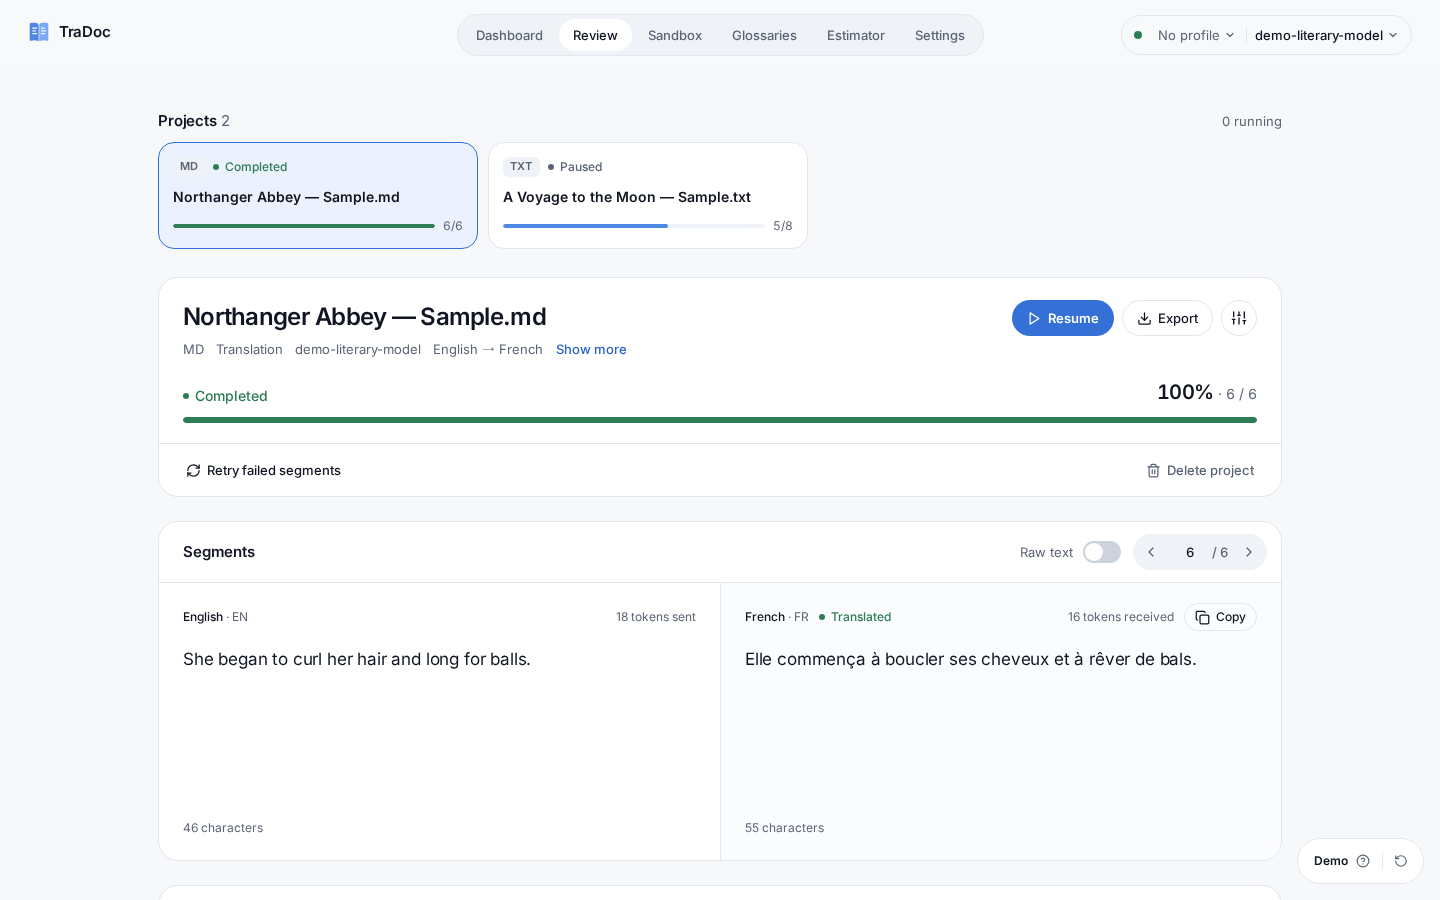
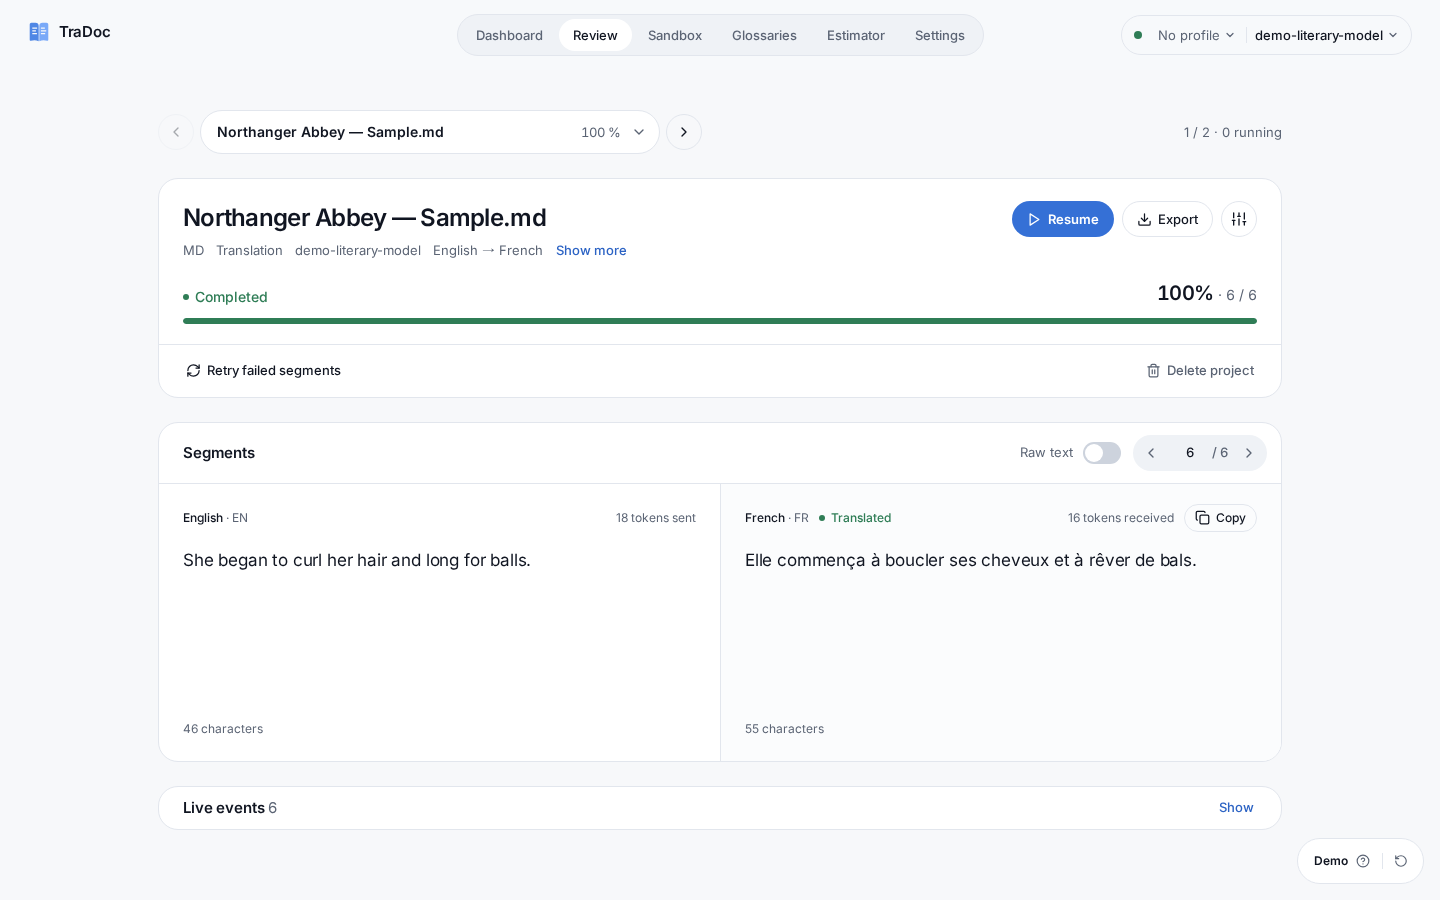
feat(ui): switch review projects from a dropdown with arrows
Replace the project cards on the Review screen with a single switcher:
previous and next buttons around a button showing the current project
and its percentage, which opens a list of every project with status
and percentage (searchable beyond five projects, arrow-key navigation,
Escape and outside click close it). It stays one row on desktop and
phones, and a demo scenario covers switching both ways.

diff --git a/web/src/components/JobsInspector.jsx b/web/src/components/JobsInspector.jsx
@@ -1,5 +1,5 @@
 import React, { useState, useEffect, useRef } from 'react';
-import { Play, Pause, RefreshCw, Download, ChevronRight, ChevronLeft, Copy, Check, Trash2, Sliders, X } from 'lucide-react';
+import { Play, Pause, RefreshCw, Download, ChevronRight, ChevronLeft, ChevronDown, Copy, Check, Search, Trash2, Sliders, X } from 'lucide-react';
 import { fetchJobs, fetchJobDetail, fetchJobSegments, startJob, pauseJob, retryJob, deleteJob, updateJobConfig, downloadJob, subscribeToEvents } from '../api';
 import { l, languageLabel, localeTag, t } from '../i18n/translations';
 import { readableSegment } from '../utils/readableSegment';
@@ -628,6 +628,45 @@ export default function JobsInspector({ selectedJobId, onSelectJob, settings, av
     return () => document.removeEventListener('keydown', closeOnEscape);
   }, [isEditingConfig]);
 
+  const [switcherOpen, setSwitcherOpen] = useState(false);
+  const [projectQuery, setProjectQuery] = useState('');
+  const switcherRef = useRef(null);
+  const switcherListRef = useRef(null);
+
+  useEffect(() => {
+    if (!switcherOpen) return undefined;
+    const closeOutside = (event) => {
+      if (switcherRef.current && !switcherRef.current.contains(event.target)) setSwitcherOpen(false);
+    };
+    const closeOnEscape = (event) => {
+      if (event.key === 'Escape') setSwitcherOpen(false);
+    };
+    document.addEventListener('mousedown', closeOutside);
+    document.addEventListener('keydown', closeOnEscape);
+    return () => {
+      document.removeEventListener('mousedown', closeOutside);
+      document.removeEventListener('keydown', closeOnEscape);
+    };
+  }, [switcherOpen]);
+
+  const currentJobIndex = jobs.findIndex((item) => item.id === job?.id);
+  const filteredJobs = jobs.filter((item) => item.file_name.toLowerCase().includes(projectQuery.trim().toLowerCase()));
+  const jobPercent = (item) => (item.total_chunks > 0 ? Math.round((item.completed_chunks / item.total_chunks) * 100) : 0);
+  const pickJob = (item) => {
+    selectJobOptimistic(item);
+    setSwitcherOpen(false);
+    setProjectQuery('');
+  };
+  const moveFocusInList = (event) => {
+    if (!['ArrowDown', 'ArrowUp'].includes(event.key)) return;
+    event.preventDefault();
+    const options = Array.from(switcherListRef.current?.querySelectorAll('button') || []);
+    if (options.length === 0) return;
+    const index = options.indexOf(document.activeElement);
+    const next = event.key === 'ArrowDown' ? Math.min(options.length - 1, index + 1) : Math.max(0, index - 1);
+    options[index === -1 ? 0 : next].focus();
+  };
+
   const jobStatusLabel = (status) => (
     status === 'PROCESSING' ? t('dashboard.processing', lang)
       : status === 'COMPLETED' ? t('dashboard.completed', lang)
@@ -650,43 +689,95 @@ export default function JobsInspector({ selectedJobId, onSelectJob, settings, av
     <div className="page">
       <h1 className="sr-only">{l(lang, 'Inspect and review', 'Inspection et révision', 'Inspección y revisión', 'Prüfen und überarbeiten')}</h1>
 
-      <section aria-labelledby="project-list-title" className="flex flex-col gap-2.5">
-        <div className="flex items-baseline justify-between gap-3">
-          <h2 id="project-list-title" className="section-title">
-            {l(lang, 'Projects', 'Projets', 'Proyectos', 'Projekte')} <span className="font-normal text-sec">{jobs.length}</span>
-          </h2>
-          <span className="text-[13px] text-sec" title={l(lang, 'Projects currently running', 'Projets actuellement en cours', 'Proyectos actualmente en curso', 'Derzeit laufende Projekte')}>
-            {activeJobCount} {l(lang, 'running', 'en cours', 'en curso', 'laufend')}
-          </span>
+      <div className="flex flex-wrap items-center gap-2">
+        <div className="flex min-w-0 flex-1 items-center gap-1.5 max-sm:basis-full">
+          <button
+            type="button"
+            className="icon-btn"
+            disabled={currentJobIndex <= 0}
+            onClick={() => pickJob(jobs[currentJobIndex - 1])}
+            aria-label={l(lang, 'Previous project', 'Projet précédent', 'Proyecto anterior', 'Vorheriges Projekt')}
+          >
+            <ChevronLeft aria-hidden="true" />
+          </button>
+          <div ref={switcherRef} className="relative min-w-0 flex-1 sm:max-w-[460px]">
+            <button
+              type="button"
+              aria-expanded={switcherOpen}
+              onClick={() => setSwitcherOpen(!switcherOpen)}
+              onKeyDown={(event) => {
+                if (event.key === 'ArrowDown') {
+                  event.preventDefault();
+                  setSwitcherOpen(true);
+                }
+              }}
+              className="flex h-11 w-full min-w-0 items-center gap-2.5 rounded-full border border-line bg-card pl-4 pr-3 text-left hover:bg-well"
+            >
+              <span className="sr-only">{l(lang, 'Current project', 'Projet en cours', 'Proyecto actual', 'Aktuelles Projekt')}:</span>
+              <span className="min-w-0 flex-1 truncate font-semibold">{job?.file_name || t('inspector.projectsList', lang)}</span>
+              {job && <span className="text-[13px] tabular-nums text-sec">{jobPercent(job)} %</span>}
+              <ChevronDown className={`size-4 flex-none text-sec transition-transform ${switcherOpen ? 'rotate-180' : ''}`} aria-hidden="true" />
+            </button>
+
+            {switcherOpen && (
+              <div className="absolute left-0 right-0 top-[calc(100%+6px)] z-30 overflow-hidden rounded-2xl border border-line bg-card sm:min-w-[380px]" onKeyDown={moveFocusInList}>
+                {jobs.length > 5 && (
+                  <label className="flex items-center gap-2 border-b border-line px-3.5">
+                    <Search className="size-4 flex-none text-sec" aria-hidden="true" />
+                    <input
+                      autoFocus
+                      type="search"
+                      value={projectQuery}
+                      onChange={(event) => setProjectQuery(event.target.value)}
+                      placeholder={l(lang, 'Search projects', 'Rechercher un projet', 'Buscar un proyecto', 'Projekt suchen')}
+                      aria-label={l(lang, 'Search projects', 'Rechercher un projet', 'Buscar un proyecto', 'Projekt suchen')}
+                      className="h-11 min-w-0 flex-1 border-0 bg-transparent outline-none"
+                    />
+                  </label>
+                )}
+                <ul ref={switcherListRef} aria-label={t('inspector.projectsList', lang)} className="m-0 max-h-[min(60vh,360px)] list-none overflow-y-auto p-1.5">
+                  {filteredJobs.length === 0 ? (
+                    <li className="px-3 py-4 text-center text-[13px] text-sec">{l(lang, 'No matching project', 'Aucun projet correspondant', 'Ningún proyecto coincide', 'Kein passendes Projekt')}</li>
+                  ) : filteredJobs.map((item) => {
+                    const isSelected = job?.id === item.id;
+                    return (
+                      <li key={item.id}>
+                        <button
+                          type="button"
+                          autoFocus={jobs.length <= 5 && isSelected}
+                          aria-current={isSelected ? 'true' : undefined}
+                          onClick={() => pickJob(item)}
+                          className={`flex w-full items-center gap-3 rounded-xl border-0 px-3 py-2.5 text-left hover:bg-well focus-visible:bg-well ${isSelected ? 'bg-[var(--accent-soft)]' : 'bg-transparent'}`}
+                        >
+                          <span className="tag flex-none max-sm:hidden">{item.file_type?.toUpperCase()}</span>
+                          <span className="flex min-w-0 flex-1 flex-col">
+                            <span className="line-clamp-2 break-words font-medium">{item.file_name}</span>
+                            <span className={`status ${statusClass(item.status)}`}>{jobStatusLabel(item.status)}</span>
+                          </span>
+                          <span className="flex-none text-[13px] font-medium tabular-nums text-sec">{jobPercent(item)} %</span>
+                          {isSelected && <Check className="size-4 flex-none text-accent-text" aria-hidden="true" />}
+                        </button>
+                      </li>
+                    );
+                  })}
+                </ul>
+              </div>
+            )}
+          </div>
+          <button
+            type="button"
+            className="icon-btn"
+            disabled={currentJobIndex === -1 || currentJobIndex >= jobs.length - 1}
+            onClick={() => pickJob(jobs[currentJobIndex + 1])}
+            aria-label={l(lang, 'Next project', 'Projet suivant', 'Proyecto siguiente', 'Nächstes Projekt')}
+          >
+            <ChevronRight aria-hidden="true" />
+          </button>
         </div>
-        <ul className="project-rail m-0 flex list-none gap-2.5 overflow-x-auto p-0 pb-1">
-          {jobs.map((item) => {
-            const isSelected = job?.id === item.id;
-            const percent = item.total_chunks > 0 ? Math.round((item.completed_chunks / item.total_chunks) * 100) : 0;
-            return (
-              <li key={item.id} className="flex-[0_0_min(78vw,280px)] snap-start sm:flex-[1_0_240px] sm:max-w-[320px]">
-                <button
-                  type="button"
-                  aria-current={isSelected ? 'true' : undefined}
-                  onClick={() => selectJobOptimistic(item)}
-                  title={item.file_name}
-                  className={`flex h-full w-full flex-col gap-2.5 rounded-2xl border p-3.5 text-left transition-colors ${isSelected ? 'border-[var(--accent-btn)] bg-[var(--accent-soft)]' : 'border-line bg-card hover:bg-well'}`}
-                >
-                  <span className="flex w-full items-center gap-2">
-                    <span className="tag">{item.file_type?.toUpperCase()}</span>
-                    <span className={`status ${statusClass(item.status)}`}>{jobStatusLabel(item.status)}</span>
-                  </span>
-                  <span className="w-full truncate text-[14px] font-semibold">{item.file_name}</span>
-                  <span className="flex w-full items-center gap-2">
-                    <span className={`progress flex-1 !h-1 ${item.status === 'COMPLETED' ? 'is-done' : ''}`}><span style={{ width: `${percent}%` }} /></span>
-                    <span className="text-[12px] tabular-nums text-sec">{item.completed_chunks}/{item.total_chunks}</span>
-                  </span>
-                </button>
-              </li>
-            );
-          })}
-        </ul>
-      </section>
+        <span className="text-[13px] text-sec" title={l(lang, 'Projects currently running', 'Projets actuellement en cours', 'Proyectos actualmente en curso', 'Derzeit laufende Projekte')}>
+          {currentJobIndex >= 0 ? `${currentJobIndex + 1} / ${jobs.length}` : jobs.length} · {activeJobCount} {l(lang, 'running', 'en cours', 'en curso', 'laufend')}
+        </span>
+      </div>
 
       {job ? (
         <>

diff --git a/web/e2e-demo/demo.spec.js b/web/e2e-demo/demo.spec.js
@@ -52,3 +52,14 @@ test('returns a complete French translation in the sandbox', async ({ page }, te
   await expect(page.getByText(/Mon cher monsieur Bennet/)).toBeVisible();
   await expect(page.locator('.sandbox-document-output')).not.toContainText('However little known');
 });
+
+test('switches projects from the review screen', async ({ page }) => {
+  await enterDemo(page);
+  await page.getByText('Northanger Abbey — Sample.md').first().click();
+  await expect(page.getByRole('heading', { level: 2, name: 'Northanger Abbey — Sample.md' })).toBeVisible();
+  await page.getByRole('button', { name: /Current project/ }).click();
+  await page.getByRole('listitem').filter({ hasText: 'A Voyage to the Moon' }).getByRole('button').click();
+  await expect(page.getByRole('heading', { level: 2, name: 'A Voyage to the Moon — Sample.txt' })).toBeVisible();
+  await page.getByRole('button', { name: 'Previous project' }).click();
+  await expect(page.getByRole('heading', { level: 2, name: 'Northanger Abbey — Sample.md' })).toBeVisible();
+});

diff --git a/web/src/index.css b/web/src/index.css
@@ -199,8 +199,6 @@
   .seg-outline > button[aria-current="page"] { background: var(--nav-sel); color: var(--text); }
   .seg-scroll { flex-wrap: nowrap; max-width: 100%; overflow-x: auto; scrollbar-width: none; }
   .seg-scroll::-webkit-scrollbar { display: none; }
-  .project-rail { scroll-snap-type: x mandatory; scrollbar-width: thin; }
-  @media (min-width: 640px) { .project-rail { flex-wrap: wrap; overflow-x: visible; } }
 
   /* Pill holding a label and a native select */
   .chip-select {
